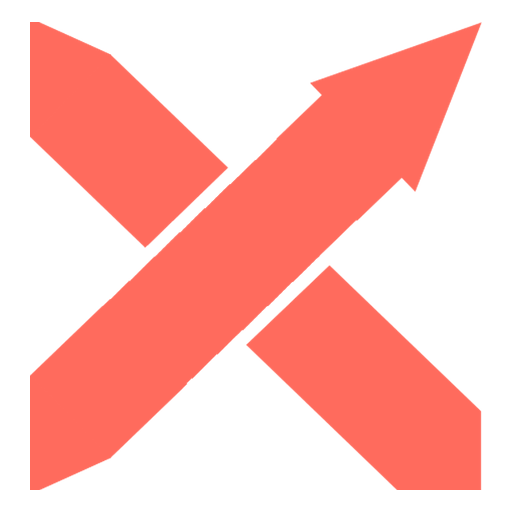
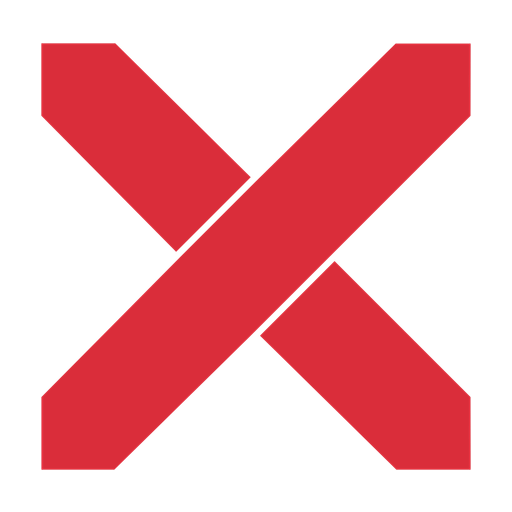
marca: identidade nova aplicada no site
Cores lidas dos proprios SVGs do kit (2026/Eixo/Logos), nao das que
tinham sido passadas antes por mensagem - elas divergiam:

  Roxo Norte          #28112e   (tinha vindo #2A0B2E)
  Vermelho Movimento  #da2d3a   (tinha vindo #F04444)
  Papel               #f3efe8

As derivadas foram RECALCULADAS, nao substituidas: o roxo antigo
(#2a104a) e o novo tem matizes diferentes, entao so trocar as bases
deixaria palco, card e sobrelinhas fora de tom. Cada derivada mantem o
degrau de luminosidade que tinha em relacao ao ink antigo, reconstruida
no matiz novo (scripts/derivar-paleta.mjs). Os quase-brancos passaram a
sair do Papel: derivados do roxo vinham rosados, e a identidade nova nao
tem branco arroxeado.

O vermelho novo da 4.15:1 sobre o Papel, contra 2.51:1 do coral - some
quase toda a necessidade de variante escurecida para titulo. Sobre o
roxo, porem, ele cai pra 3.65:1, entao entra --color-azure-on-dark
(#e0505b, 4.52:1) para acento em texto pequeno nas secoes escuras.

Efeito colateral obrigatorio: os botoes eram bg-azure com text-ink, o
que passava com o coral e cai pra 3.65:1 com o vermelho novo. Rotulo de
botao passa a ser branco (4.75:1).

Assets gerados dos SVGs do kit, aparados ate o desenho: logotipo (claro
e escuro), simbolo e favicon com fundo solido. O header perdeu a pilha
de filter brightness/invert/hue-rotate que recoloria o PNG
monocromatico antigo - agora a cor vem do arquivo, e o X volta a ser
vermelho no cabecalho.
[…]

diff --git a/app/globals.css b/app/globals.css
@@ -1,43 +1,58 @@
 @import "tailwindcss";
 
 @theme {
-  --color-main: #180525;
-  --color-card: #260b45;
-  --color-accent: #ff665c;
-  --color-muted: #806f92;
+  /* ─────────────────────────────────────────────────────────────────────
+     Identidade de 31/08/2026. As três bases vêm do kit da marca
+     (2026/Eixo/Logos), lidas dos próprios SVGs:
 
-  --color-dark: #180525;
-  --color-ink: #2a104a;
-  --color-paper: #fff8f2;
-  --color-lavanda: #f4efff;
-  --color-azure: #ff665c;
-  /* #ff665c como TEXTO sobre fundo claro (bone/branco/lavanda) não passa no
-     mínimo de contraste da WCAG — 2.83:1, abaixo até do limiar de 3:1 pra
-     texto grande. Essas duas variantes escurecidas são só pra isso; o coral
-     original continua intacto em botões, fundos e texto sobre fundo escuro
-     (onde já passa com folga). */
-  --color-azure-heading: #e35b52; /* título grande em negrito (precisa 3:1) — 3.51:1 */
-  --color-azure-label: #b84942; /* rótulo/contador pequeno (precisa 4.5:1) — 5.08:1 */
-  --color-cyan: #e8deff;
-  --color-bone: #fff8f2;
-  --color-bone-2: #eadfff;
+       Roxo Norte          #28112e
+       Vermelho Movimento  #da2d3a
+       Papel               #f3efe8
+
+     As derivadas NÃO foram substituídas, foram recalculadas: o roxo antigo
+     (#2a104a) e o novo têm matizes diferentes, então trocar só as bases
+     deixaria toda a família (palco, card, sobrelinhas) fora de tom. Cada
+     derivada mantém o mesmo degrau de luminosidade que tinha em relação ao
+     ink antigo, reconstruída no matiz novo. Ver scripts/derivar-paleta.mjs.
+     ───────────────────────────────────────────────────────────────────── */
+  --color-main: #0a030c;
+  --color-card: #230d28;
+  --color-accent: #da2d3a;
+  --color-muted: #7a687e;
+
+  --color-dark: #0a030c;
+  --color-ink: #28112e;
+  --color-paper: #f3efe8;
+  /* Quase-brancos saem do Papel, não do roxo: derivados do roxo vinham
+     rosados, e a identidade nova não tem branco arroxeado — tem Papel. */
+  --color-lavanda: #f2eee6;
+  --color-azure: #da2d3a;
+  /* O vermelho novo já dá 4.15:1 sobre o Papel (o coral antigo dava 2.51:1),
+     então ele mesmo serve como título grande. Só o rótulo pequeno, que precisa
+     de 4.5:1, ainda pede uma variante escurecida. */
+  --color-azure-heading: #da2d3a; /* título grande (precisa 3:1) — 4.15:1 */
+  --color-azure-label: #d22532; /* rótulo pequeno (precisa 4.5:1) — 4.52:1 */
+  /* Sobre o roxo o vermelho cai pra 3.65:1. Esta variante clareada é pra
+     quando ele é texto pequeno em seção escura — 4.52:1. */
+  --color-azure-on-dark: #e0505b;
+  --color-cyan: #ece6db;
+  --color-bone: #f3efe8;
+  --color-bone-2: #ece6dc;
 
   /* Palco da vitrine de serviços. Namespace "stage-" de propósito: é uma
      variante mais profunda da marca, e não pode colidir com --color-ink /
      --color-azure, que continuam mandando no resto do site. */
-  --color-stage-deep: #12062b;
-  --color-stage-mid: #1b0b3b;
-  --color-stage-lift: #2a1358;
-  --color-stage-card: #f4f1ea;
-  --color-stage-card-ink: #1b0b3b;
-  /* O #7c7488 do desenho original dava só 3.95:1 sobre o card creme — reprova
-     no mínimo de 4.5:1, e ele é usado em texto de 9-10px (legenda do card e
-     sobrelinha do CTA). Escurecido 8% no mesmo matiz: 4.70:1. */
-  --color-stage-card-muted: #70687a;
-  --color-stage-text: #f6f2ff;
-  --color-stage-text-muted: #a79cc4;
-  --color-stage-display: #ede6ff;
-  --color-stage-accent: #f4655a;
+  --color-stage-deep: #0e0511;
+  --color-stage-mid: #1c0b20;
+  --color-stage-lift: #33163a;
+  --color-stage-card: #e7e5e1;
+  --color-stage-card-ink: #1c0b20;
+  /* Texto de 9-10px sobre o card claro, então precisa dos 4.5:1 cheios: 4.53:1. */
+  --color-stage-card-muted: #726176;
+  --color-stage-text: #f3efe8;
+  --color-stage-text-muted: #ac92b3;
+  --color-stage-display: #efeae0;
+  --color-stage-accent: #ca303c;
 
   --font-display: var(--font-montserrat), ui-sans-serif, system-ui, sans-serif;
   --font-sans: var(--font-inter), ui-sans-serif, system-ui, sans-serif;
@@ -64,12 +79,12 @@ body.cursor-ready * { cursor: none !important; }
 
 /* Intro screen */
 .intro-screen {
-  position: fixed; inset: 0; z-index: 10000; background: #180525;
+  position: fixed; inset: 0; z-index: 10000; background: #0a030c;
   display: flex; align-items: center; justify-content: center; flex-direction: column; gap: 24px;
   transition: transform 0.9s cubic-bezier(0.76, 0, 0.24, 1);
 }
 .intro-screen.exit { transform: translateY(-100%); }
-.intro-progress { position: absolute; bottom: 0; left: 0; height: 2px; background: #ff665c; transition: width 0.28s linear; }
+.intro-progress { position: absolute; bottom: 0; left: 0; height: 2px; background: #da2d3a; transition: width 0.28s linear; }
 
 /* =========================================================
    LUSION REDESIGN — one world, one scroll

diff --git a/components/EixoEditorialSite.tsx b/components/EixoEditorialSite.tsx
@@ -97,7 +97,7 @@ export default function EixoEditorialSite() {
                 </p>
                 <a
                   href="#portfolio"
-                  className="inline-flex shrink-0 items-center gap-3 bg-azure px-6 py-3.5 text-[13px] font-bold text-ink transition-colors hover:bg-white"
+                  className="inline-flex shrink-0 items-center gap-3 bg-azure px-6 py-3.5 text-[13px] font-bold text-white transition-colors hover:bg-white"
                 >
                   Ver projetos <span aria-hidden>↓</span>
                 </a>
@@ -195,7 +195,7 @@ export default function EixoEditorialSite() {
             <Reveal>
               <div className="flex flex-col justify-between gap-6 md:flex-row md:items-end">
                 <div>
-                  <p className="font-sans text-[10px] font-bold uppercase tracking-[0.18em] text-azure">Portfólio em movimento</p>
+                  <p className="font-sans text-[10px] font-bold uppercase tracking-[0.18em] text-azure-on-dark">Portfólio em movimento</p>
                   {/* h2, não h3: é título de seção e vinha depois dos h3 dos
                       cards de projeto, quebrando a hierarquia do documento. */}
                   <h2 className="mt-4 max-w-[820px] [text-wrap:balance] font-display text-[clamp(21px,3.1vw,43px)] font-black uppercase leading-[1] tracking-[-0.035em]">
@@ -211,7 +211,7 @@ export default function EixoEditorialSite() {
                       soubesse a URL não chegava nela. */}
                   <Link
                     href="/portfolio/video"
-                    className="mt-4 inline-flex items-center gap-2 border-b border-azure/40 pb-1 font-sans text-[13px] font-bold text-azure transition-colors hover:border-azure hover:text-white"
+                    className="mt-4 inline-flex items-center gap-2 border-b border-azure/40 pb-1 font-sans text-[13px] font-bold text-azure-on-dark transition-colors hover:border-azure hover:text-white"
                   >
                     Ver todos os vídeos <span aria-hidden>↗</span>
                   </Link>
@@ -229,7 +229,10 @@ export default function EixoEditorialSite() {
           {duplicatedServices.map((service, index) => (
             <div key={`${service.title}-${index}`} className="flex items-center">
               <span className="px-5 font-display text-[clamp(19px,2.8vw,40px)] font-black uppercase leading-none tracking-[-0.025em]">{service.title}</span>
-              <span className="text-[clamp(14px,2.2vw,31px)] text-ink">✦</span>
+              {/* Separador, não conteúdo — daí o aria-hidden. Em branco porque
+                  o roxo sobre o vermelho novo dá 3.65:1, e a 14px isso reprova
+                  (os nomes dos serviços ao lado passam por serem grandes). */}
+              <span aria-hidden className="text-[clamp(14px,2.2vw,31px)] text-white">✦</span>
             </div>
           ))}
         </div>

diff --git a/components/ContactForm.tsx b/components/ContactForm.tsx
@@ -71,13 +71,13 @@ export default function ContactForm() {
       <div className="grid gap-4 sm:grid-cols-2">
         <div>
           <label htmlFor={`${id}-nome`} className={rotulo}>
-            Nome <span className="text-azure">*</span>
+            Nome <span className="text-azure-on-dark">*</span>
           </label>
           <input id={`${id}-nome`} name="nome" required autoComplete="name" placeholder="Como te chamo?" className={campo} />
         </div>
         <div>
           <label htmlFor={`${id}-telefone`} className={rotulo}>
-            WhatsApp <span className="text-azure">*</span>
+            WhatsApp <span className="text-azure-on-dark">*</span>
           </label>
           <input
             id={`${id}-telefone`}
@@ -109,7 +109,7 @@ export default function ContactForm() {
 
       <div>
         <label htmlFor={`${id}-servico`} className={rotulo}>
-          O que você procura <span className="text-azure">*</span>
+          O que você procura <span className="text-azure-on-dark">*</span>
         </label>
         {/* A lista sai de lib/data.ts, a mesma que monta a seção de serviços —
             assim serviço novo aparece aqui sozinho, sem duplicar a lista. */}
@@ -130,7 +130,7 @@ export default function ContactForm() {
 
       <div>
         <label htmlFor={`${id}-expectativa`} className={rotulo}>
-          O que você espera <span className="text-azure">*</span>
+          O que você espera <span className="text-azure-on-dark">*</span>
         </label>
         <textarea
           id={`${id}-expectativa`}
@@ -164,7 +164,7 @@ export default function ContactForm() {
         <button
           type="submit"
           disabled={estado === 'enviando'}
-          className="bg-azure px-6 py-3.5 text-[13px] font-bold text-ink transition-colors hover:bg-white disabled:cursor-not-allowed disabled:opacity-60"
+          className="bg-azure px-6 py-3.5 text-[13px] font-bold text-white transition-colors hover:bg-white disabled:cursor-not-allowed disabled:opacity-60"
         >
           {estado === 'enviando' ? 'Enviando…' : 'Enviar'}
         </button>
@@ -172,7 +172,7 @@ export default function ContactForm() {
         {/* aria-live: quem usa leitor de tela precisa ouvir o resultado, que
             de outro modo só existe visualmente. */}
         <p aria-live="polite" className="text-[13px]">
-          {estado === 'enviado' && <span className="text-azure">Recebido. Respondo em breve.</span>}
+          {estado === 'enviado' && <span className="text-azure-on-dark">Recebido. Respondo em breve.</span>}
           {estado === 'erro' && <span className="text-white/70">{erro}</span>}
         </p>
       </div>

diff --git a/lib/portfolio.ts b/lib/portfolio.ts
@@ -355,14 +355,14 @@ export const portfolioVideos = [
 // da logo plana por mostrar a marca aplicada). `accent` é só a cor de fundo
 // do card na página /identidade-visual/[slug] — não é conteúdo, é estilo.
 export const identities = [
-  { slug: 'eixo-de-marca', name: 'Eixo de Marca', src: '/portfolio-media/marca-eixo.webp', alt: 'Eixo de Marca', accent: '#2a104a' },
+  { slug: 'eixo-de-marca', name: 'Eixo de Marca', src: '/portfolio-media/marca-eixo.webp', alt: 'Eixo de Marca', accent: '#28112e' },
   { slug: 'vista-bajeko', name: 'Vista Bajeko', src: '/portfolio-media/identidade-vista-bajeko-manual.webp', alt: 'Vista Bajeko', accent: '#0b4a5c' },
   { slug: 'espaco-dos-anjos', name: 'Espaço dos Anjos', src: '/portfolio-media/marca-espaco-dos-anjos.webp', alt: 'Espaço dos Anjos', accent: '#b8879a' },
   { slug: 'laura-anjos', name: 'Laura Anjos', src: '/portfolio-media/marca-laura-anjos.webp', alt: 'Laura Anjos', accent: '#caa153' },
   { slug: 'viva-angra', name: 'Viva Angra', src: '/portfolio-media/marca-viva-angra.webp', alt: 'Viva Angra', accent: '#2f7d6b' },
   { slug: 'luciane-judice', name: 'Luciane Júdice', src: '/portfolio-media/marca-luciane-judice.webp', alt: 'Luciane Júdice', accent: '#8b4bc8' },
   { slug: 'itamang', name: 'Itamang', src: '/portfolio-media/marca-itamang.webp', alt: 'Itamang', accent: '#3a5a8c' },
-  { slug: 'bm', name: 'BIG', src: '/portfolio-media/marca-bm.webp', alt: 'BIG', accent: '#ff665c' },
+  { slug: 'bm', name: 'BIG', src: '/portfolio-media/marca-bm.webp', alt: 'BIG', accent: '#da2d3a' },
   // Manual fechado em 29/08/2026. Card montado em 1080x1440 — o 3:4 exato do
   // carrossel — com a logo aparada até o lettering: o PNG de origem tinha
   // margem demais e a marca saía boiando no cartão.

diff --git a/components/SiteFooter.tsx b/components/SiteFooter.tsx
@@ -15,7 +15,7 @@ export default function SiteFooter() {
       className="flex min-h-svh scroll-mt-24 flex-col justify-center bg-ink px-[var(--gutter)] pb-8 pt-[clamp(88px,11vw,150px)] text-white"
     >
       <div className="mx-auto w-full max-w-[1420px]">
-        <p className="font-mono text-[10px] uppercase tracking-[0.2em] text-azure">Próximo projeto</p>
+        <p className="font-mono text-[10px] uppercase tracking-[0.2em] text-azure-on-dark">Próximo projeto</p>
         <h2 className="mt-6 max-w-[1250px] [text-wrap:balance] font-display text-[clamp(29px,5.2vw,80px)] font-black uppercase leading-[0.9] tracking-[-0.05em] max-sm:leading-[0.96] max-sm:tracking-[-0.035em]">
           Vamos fazer sua marca <span className="text-azure">aparecer.</span>
         </h2>
@@ -35,7 +35,7 @@ export default function SiteFooter() {
 
         <div className="mt-12 flex flex-col justify-between gap-8 border-t border-white/15 pt-8 md:flex-row md:items-center">
           <div className="flex flex-wrap gap-3">
-            <a href={whatsappUrl} target="_blank" rel="noopener noreferrer" className="bg-azure px-6 py-3.5 text-[13px] font-bold text-ink transition-colors hover:bg-white">
+            <a href={whatsappUrl} target="_blank" rel="noopener noreferrer" className="bg-azure px-6 py-3.5 text-[13px] font-bold text-white transition-colors hover:bg-white">
               Falar no WhatsApp ↗
             </a>
             <a href={mailtoUrl} className="border border-white/25 px-6 py-3.5 text-[13px] font-bold transition-colors hover:border-white">

diff --git a/components/PontoCegoCta.tsx b/components/PontoCegoCta.tsx
@@ -14,7 +14,7 @@ function spotlightMove(event: React.MouseEvent<HTMLAnchorElement>) {
 /** Mira: remete a "pinpointar" o ponto cego em vez de um emoji genérico. */
 function TargetIcon() {
   return (
-    <svg aria-hidden width="16" height="16" viewBox="0 0 16 16" fill="none" className="relative shrink-0 text-azure">
+    <svg aria-hidden width="16" height="16" viewBox="0 0 16 16" fill="none" className="relative shrink-0 text-azure-on-dark">
       <circle cx="8" cy="8" r="6" stroke="currentColor" strokeWidth="1.4" />
       <circle cx="8" cy="8" r="1.6" fill="currentColor" />
       <path d="M8 .5V3M8 13v2.5M.5 8H3M13 8h2.5" stroke="currentColor" strokeWidth="1.4" strokeLinecap="round" />
@@ -63,10 +63,10 @@ export default function PontoCegoCta({
       <TargetIcon />
       <span className="relative">
         {variant === 'header' ? (
-          <span className="text-azure">Ponto Cego</span>
+          <span className="text-azure-on-dark">Ponto Cego</span>
         ) : (
           <>
-            Quero descobrir meu <span className="text-azure">Ponto Cego</span>
+            Quero descobrir meu <span className="text-azure-on-dark">Ponto Cego</span>
           </>
         )}
       </span>

diff --git a/components/SiteHeader.tsx b/components/SiteHeader.tsx
@@ -39,15 +39,20 @@ export default function SiteHeader() {
           <Image
             src="/eixo-wordmark.png"
             alt="Eixo de Marca"
-            width={1515}
-            height={573}
+            width={1600}
+            height={489}
             priority
-            sizes="64px"
+            sizes="72px"
             // ~15% maior: a pílula do "Ponto Cego" pesava mais que a própria
             // marca no cabeçalho. O CTA continua evidente, mas deixa de
             // competir com a logo.
+            //
+            // Sem `filter`: o arquivo antigo era monocromático e precisava de
+            // uma pilha de brightness/invert/hue-rotate pra virar roxo. O
+            // logotipo novo já sai do kit nas cores certas (Roxo Norte + X
+            // Vermelho Movimento), então o hack saiu junto — e o X volta a ser
+            // vermelho no cabeçalho, que o filtro achatava.
             className={`w-auto transition-all duration-500 ${scrolled ? 'h-[21px]' : 'h-[24px] sm:h-7'}`}
-            style={{ filter: 'brightness(0) saturate(100%) invert(11%) sepia(37%) saturate(3825%) hue-rotate(258deg) brightness(76%) contrast(104%)' }}
           />
         </Link>
 

diff --git a/components/ui/kinetic-grid.tsx b/components/ui/kinetic-grid.tsx
@@ -172,7 +172,7 @@ export default function KineticGrid({
         // Paleta do Eixo: fundo ink (--color-ink) e acento coral (--color-azure)
         // no lugar do azul genérico do componente original.
         brand: {
-          bg: "#2a104a",
+          bg: "#28112e",
           lineActive: { r: 255, g: 102, b: 92, a: 0.9 },
           nodeActive: { r: 255, g: 102, b: 92, a: 1.0 },
           glow: "255,102,92",
@@ -415,7 +415,7 @@ export default function KineticGrid({
       ref={rootRef}
       className={cn(
         "relative w-full min-h-screen overflow-hidden",
-        globalColor === "monochrome" ? "bg-[#000000]" : globalColor === "brand" ? "bg-[#2a104a]" : "bg-[#161618]",
+        globalColor === "monochrome" ? "bg-[#000000]" : globalColor === "brand" ? "bg-[#28112e]" : "bg-[#161618]",
         className,
       )}
     >

diff --git a/lib/works.ts b/lib/works.ts
@@ -32,7 +32,7 @@ export const works: Work[] = [
     label: 'Social media',
     caption: 'Rotina editorial e conteúdo',
     format: 'portrait', // poster 640x1138 (9:16)
-    accent: '#ff665c',
+    accent: '#da2d3a',
     card: '/portfolio-media/videos/poster-movimenta-angra.webp',
     screen: {
       type: 'video',
@@ -45,7 +45,7 @@ export const works: Work[] = [
     label: 'Identidade visual',
     caption: 'Marcas e sistemas visuais',
     format: 'square', // marca Vista Bajeko 1080x1080 (1:1)
-    accent: '#2a104a',
+    accent: '#28112e',
     // Card = a marca da Vista Bajeko; tela = a mesma marca aplicada no manual.
     card: '/portfolio-media/identidade-vista-bajeko.webp',
     screen: { type: 'image', src: '/portfolio-media/identidade-vista-bajeko-manual.webp' },

diff --git a/components/MethodAxis.tsx b/components/MethodAxis.tsx
@@ -47,7 +47,7 @@ function Step({ step, index, reduce }: { step: MethodStep; index: number; reduce
 
       <div className="relative z-10 mt-auto max-w-[520px]">
         <div className={`mb-5 flex items-center gap-3 ${index % 2 === 1 ? 'md:justify-end' : ''}`}>
-          <span className="font-mono text-[10px] uppercase tracking-[0.18em] text-azure-heading">Movimento</span>
+          <span className="font-mono text-[10px] uppercase tracking-[0.18em] text-azure-on-dark">Movimento</span>
           <span aria-hidden className="h-px w-8 bg-azure-heading/70" />
           <span className="font-mono text-[10px] text-white/55">0{index + 1}</span>
         </div>

diff --git a/components/portfolio/VideoMosaic.tsx b/components/portfolio/VideoMosaic.tsx
@@ -95,7 +95,7 @@ function MosaicTile({ video, index }: { video: (typeof portfolioVideos)[number];
             playing ? 'opacity-0' : 'opacity-100'
           }`}
         >
-          <p className="font-sans text-[9px] font-semibold uppercase tracking-[0.14em] text-azure">{video.tag}</p>
+          <p className="font-sans text-[9px] font-semibold uppercase tracking-[0.14em] text-azure-on-dark">{video.tag}</p>
           <h3 className="mt-1 font-display text-[15px] font-bold uppercase leading-[1.1] tracking-[-0.02em] text-white">
             {video.title}
           </h3>
